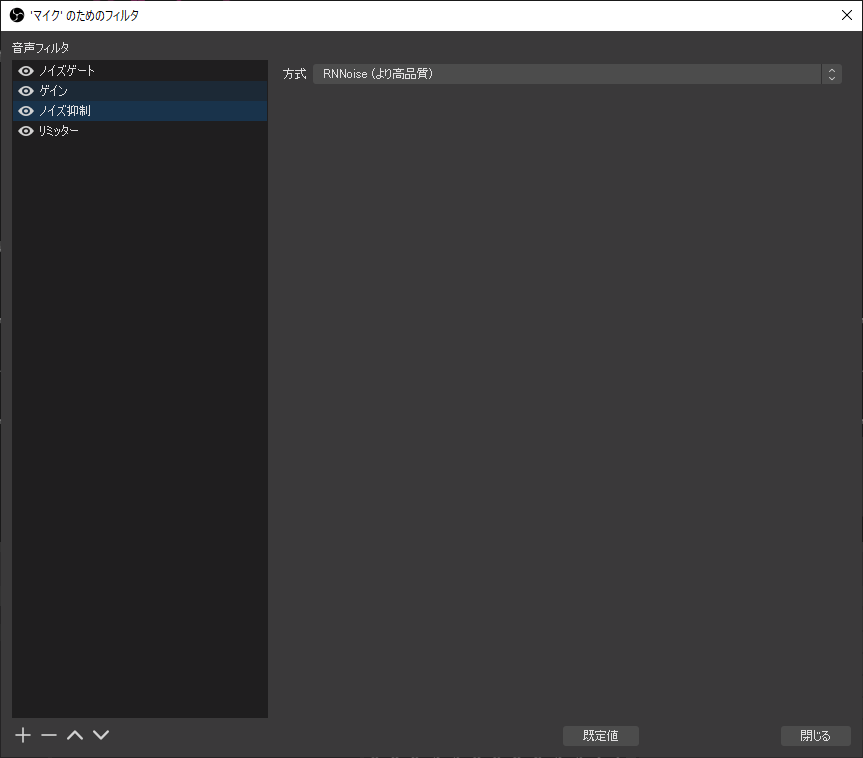
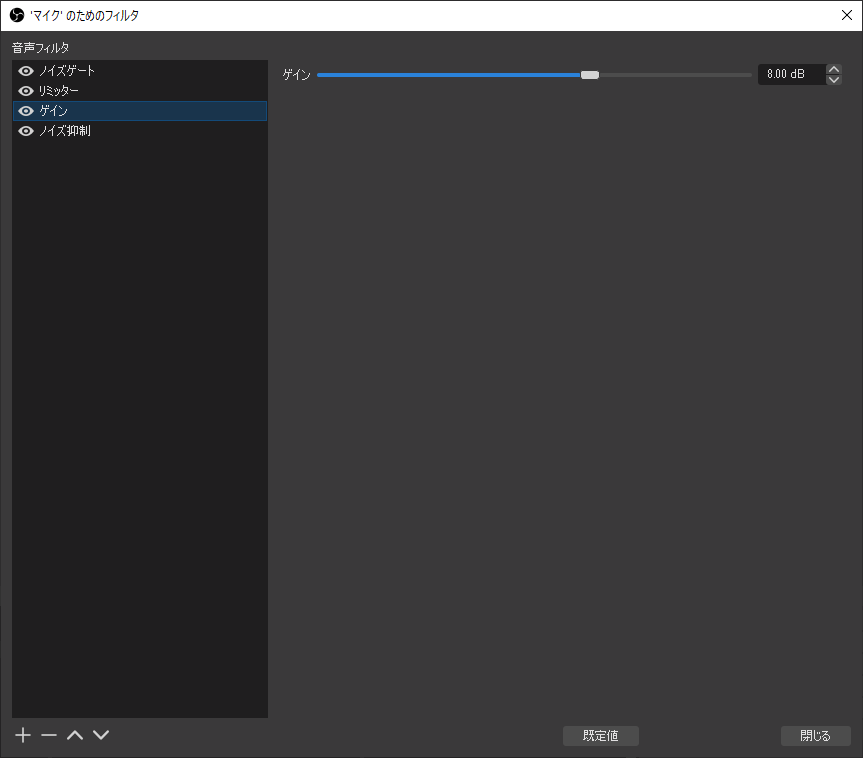
update

Changed region(s): [[0.3314, 0.091, 0.6929, 0.1214], [0.8737, 0.0607, 0.9641, 0.1214], [0.0301, 0.1214, 0.1205, 0.1821]]

diff --git a/obs-setting.html b/obs-setting.html
@@ -67,22 +67,23 @@ window.onload = () => {
 	<hr>
 
 	<h3>マイクのフィルタ</h3>
-	<img src="./img/obs/005.png?3">
-	<img src="./img/obs/006.png?3">
-	<img src="./img/obs/007.png?3">
-	<img src="./img/obs/008.png?3">
+	<img src="./img/obs/005.png?4">
+	<img src="./img/obs/006.png?4">
+	<img src="./img/obs/007.png?4">
+	<img src="./img/obs/008.png?4">
 	<p><b>【ノイズゲート】</b>PCのファンの音を始めとする生活音や環境音など「声よりも小さい音量で鳴り続けているような雑音」を無視するためのフィルタです。「開放閾値」で設定した音量よりも小さい音しかマイクに入っていない間、OBSは完全にマイクを無視します。Discordにも同じ機能がありますね。</p>
-	<p><b>【ゲイン】</b>音量を増幅するフィルタです。もちろん声とともにノイズも増幅されますので注意。</p>
-	<p><b>【ノイズ抑制】</b>ノイズ部分だけを消して声をクリアにするフィルタです。OBS Studioのバージョン26からRNNoiseが追加されました。従来のフィルタ(Speex)よりもこちらのほうが綺麗になります。</p>
 	<p><b>【リミッター】</b>マイクの音量が指定した音量を超えないようにするフィルタです。これを設定しておけば、思わず大声が出たり、「ゲイン」が利きすぎて爆音になったりしても安心です。</p>
 	<p>以前は「コンプレッサー」を付けていたのですが（解説サイトに「これは付けたほうがいいよー」みたいな説明があったので）、よくよく見てみたら「リミッター」でよいのでは？ と思ったので「リミッター」に切り替えました。</p>
+	<p><b>【ゲイン】</b>音量を増幅するフィルタです。もちろん声とともにノイズも増幅されますので注意。</p>
+	<p><b>【ノイズ抑制】</b>ノイズ部分だけを消して声をクリアにするフィルタです。OBS Studioのバージョン26からRNNoiseが追加されました。従来のフィルタ(Speex)よりもこちらのほうが綺麗になりますが、声の部分までカットされることが多いので現状使っていません。</p>
 	<p>音声フィルタは順番にも意味がある（上から順にフィルタがかかる）ので気を付けてください。</p>
 	<p>参考: <a href="http://sloppy-games.com/obs%E3%81%AE%E9%9F%B3%E5%A3%B0%E8%A8%AD%E5%AE%9A%EF%BC%88%E3%83%95%E3%82%A3%E3%83%AB%E3%82%BF%EF%BC%89%E3%81%8C%E3%82%81%E3%81%A1%E3%82%83%E3%81%8F%E3%81%A1%E3%82%83%E4%BE%BF%E5%88%A9/" target="_blank">OBSの音声フィルタの使い方、音質を最高レベルに引き上げよう！</a></p>
 	<hr>
 
 	<h3>デスクトップ音声のフィルタ</h3>
-	<img src="./img/obs/004.png?2">
-	<p>念のため「リミッター」だけ付けています。</p>
+	<img src="./img/obs/004a.png?2">
+	<img src="./img/obs/004b.png?2">
+	<p>「ゲイン」「リミッター」を付けています。</p>
 	<hr>
 
 	<h3>[設定]>[出力]>[配信]</h3>
